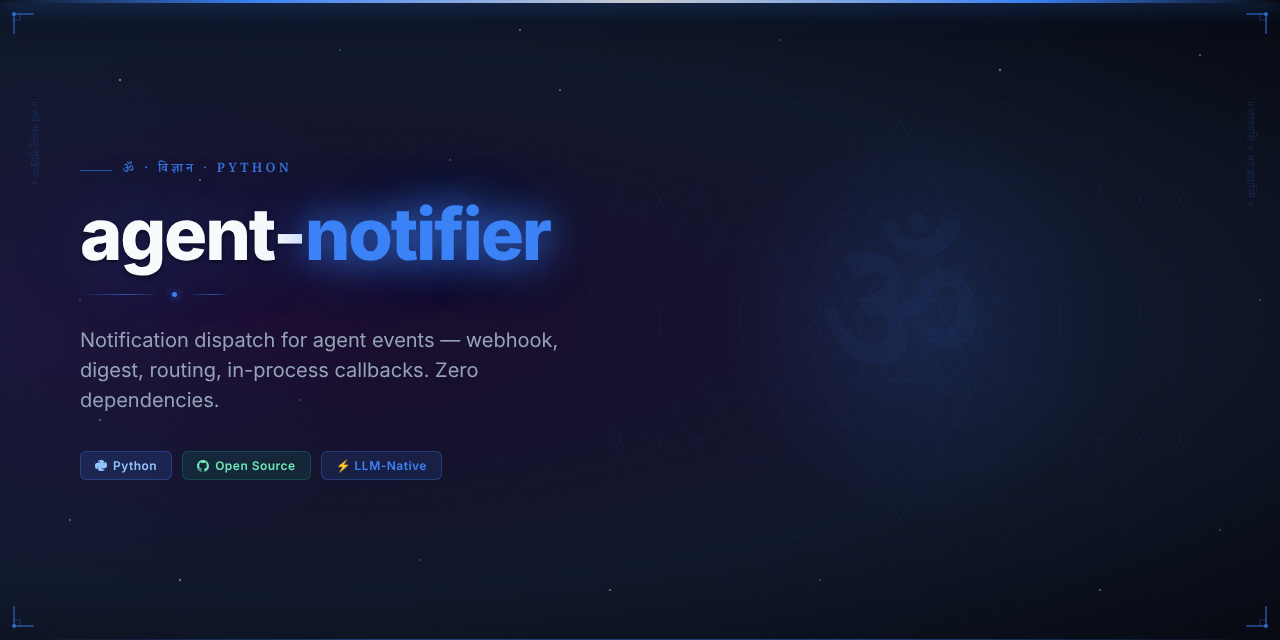
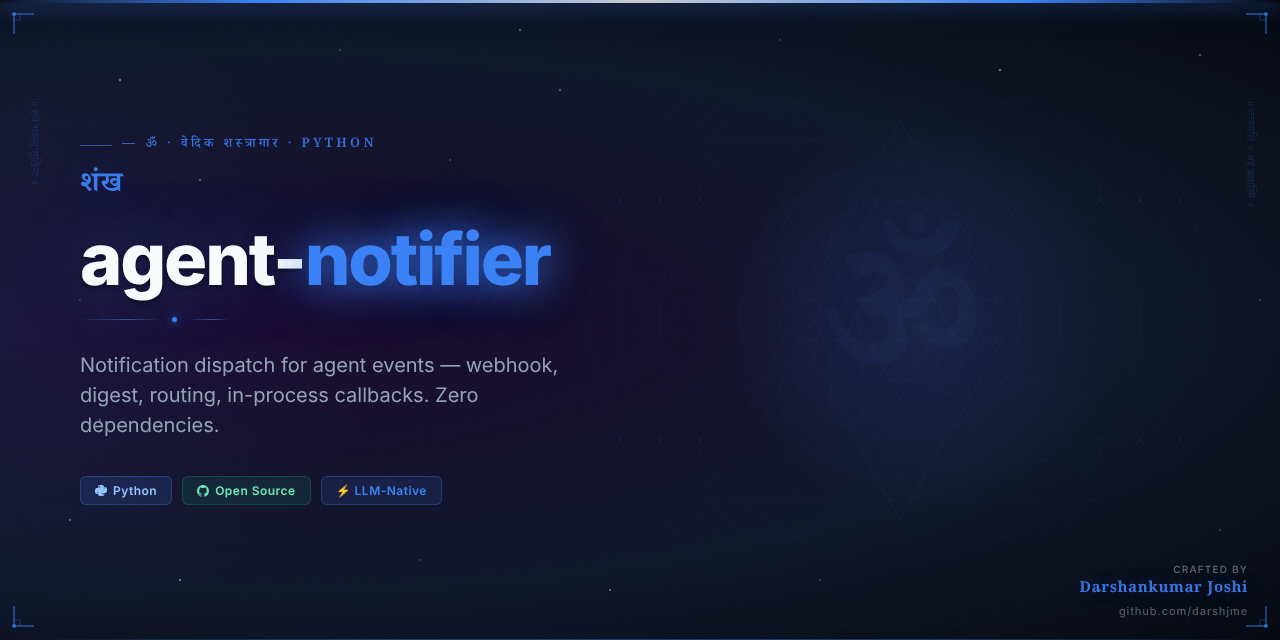
feat: add Vedic Arsenal hero image and updated README
Part of darshjme/arsenal — 100 production-grade Python libraries for LLM agents.
Vedic branding: ancient philosophy meets modern AI engineering.

diff --git a/README.md b/README.md
@@ -1,10 +1,12 @@
 <div align="center">
 
-<img src="assets/agent-notifier-hero.png" alt="agent-notifier — Vedic Arsenal" width="100%" />
+<img src="assets/agent-notifier-hero.png" alt="agent-notifier — Vedic Arsenal by Darshankumar Joshi" width="100%" />
 
 # 🌊 agent-notifier
 
-### *शंख* — Shankha — the conch shell that notifies all
+<h3><em>शंख</em></h3>
+
+> *Shankha — the conch shell that notifies all*
 
 **Notification dispatch for agent events — webhook, digest, routing, in-process callbacks. Zero dependencies.**
 
@@ -39,6 +41,19 @@ Or clone directly:
 git clone https://github.com/darshjme/agent-notifier.git
 cd agent-notifier
 pip install -e .
+```
+
+## How It Works
+
+```mermaid
+flowchart LR
+    A[Input] --> B[agent-notifier]
+    B --> C{Process}
+    C -- Success --> D[Output]
+    C -- Error --> E[Handle / Retry]
+    E --> B
+    style B fill:#6b21a8,color:#fff
+    note["Notifier — Zero Dependencies"]
 ```
 
 ## Quick Start
@@ -90,7 +105,7 @@ MIT — use freely, build freely.
 
 <div align="center">
 
-**Built with 🌊 by [Darshankumar Joshi](https://github.com/darshjme)**
+**Built with 🌊 by [Darshankumar Joshi](https://github.com/darshjme)** · [@thedarshanjoshi](https://twitter.com/thedarshanjoshi)
 
 *"कर्मण्येवाधिकारस्ते मा फलेषु कदाचन"*
 *Your right is to action alone, never to the fruits thereof.*
